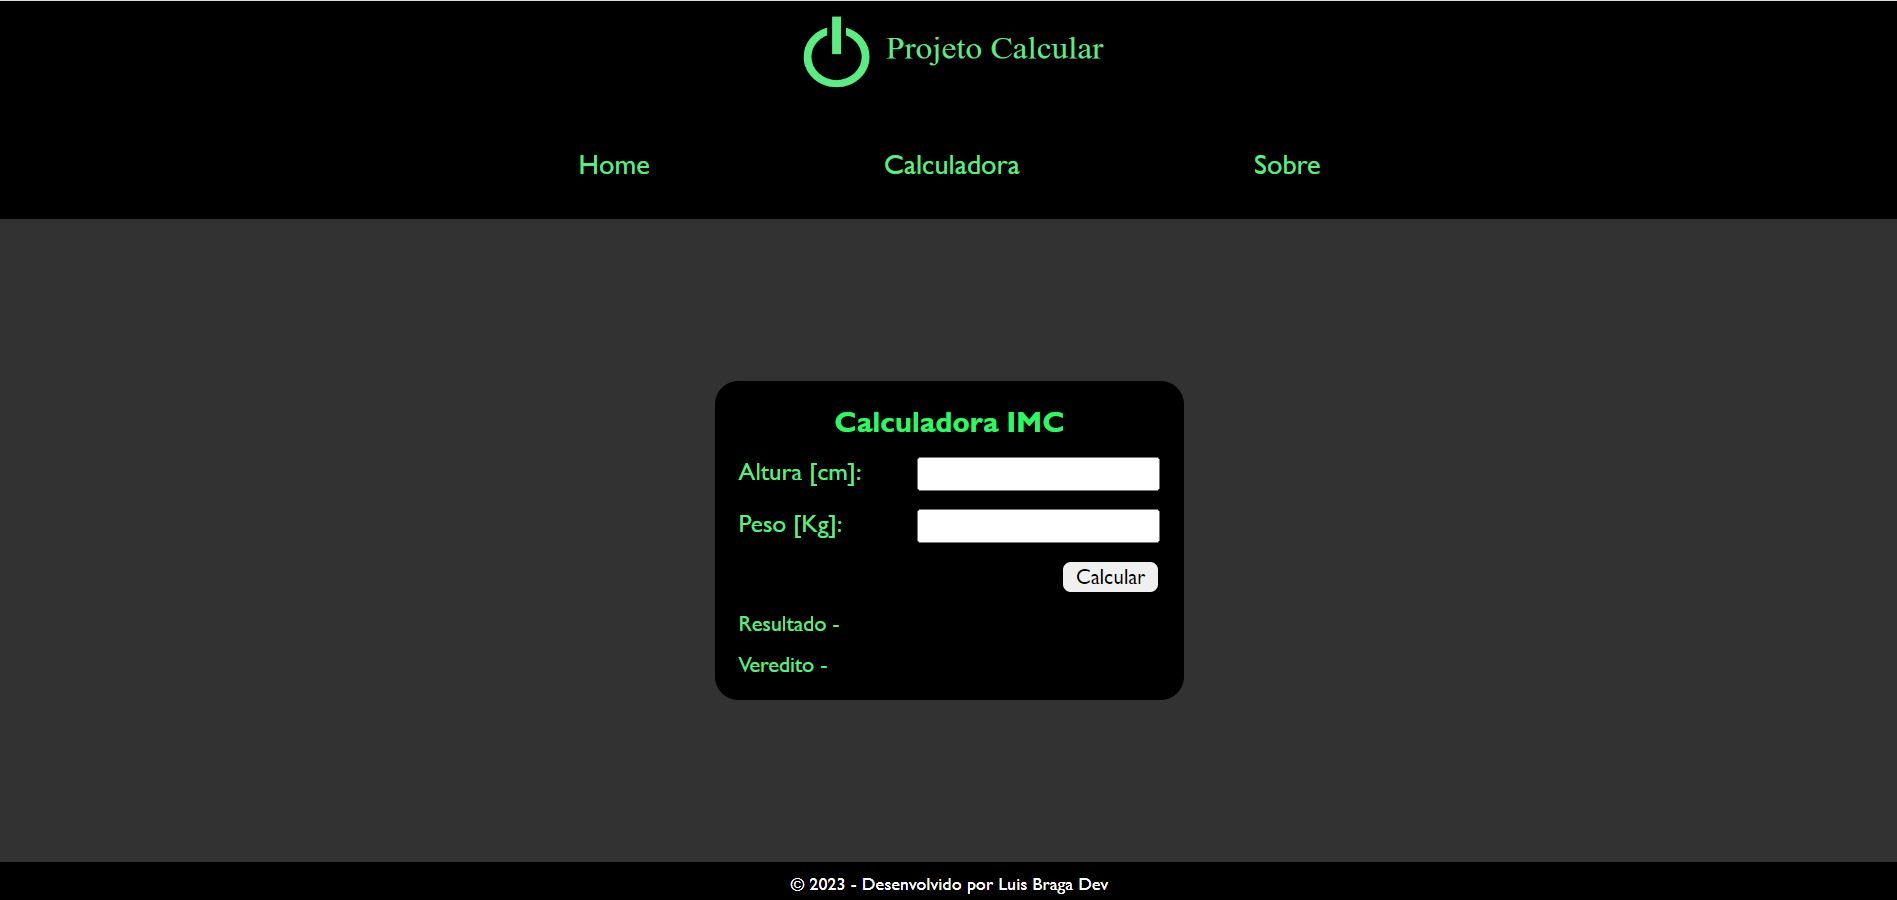
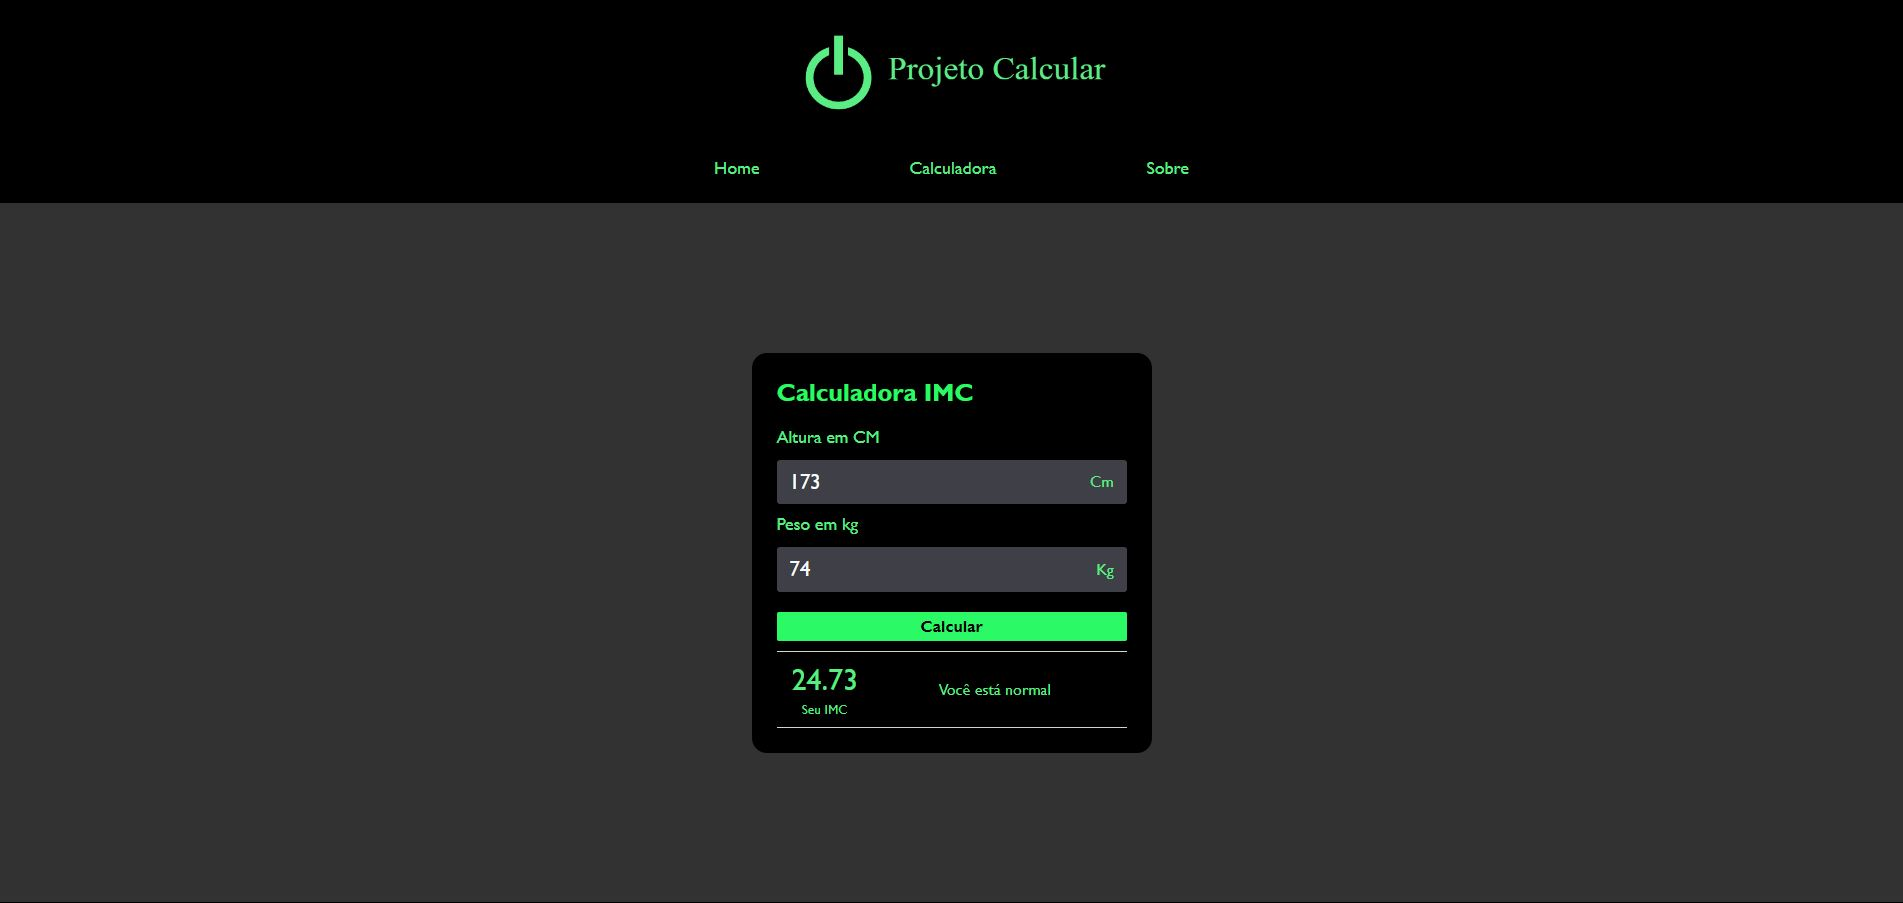
Atualização da calculadora de IMC - novo design

diff --git a/css/imc.css b/css/imc.css
@@ -8,54 +8,111 @@ main {
 .calculadora-imc {
     display: flex;
     flex-direction: column;
-    justify-content: center;
-    align-items: left;
-    gap: 12px;
+    gap: 10px;
     background-color: black;
-    padding: 15px;
+    padding: 25px;
     border-radius: 15px;
     color: #5aed83;
-    width: 300px;
+    width: 400px;
 }
 
 .calculadora-imc h3 {
-    text-align: center;
+    text-align: left;
+    font-size: 25px;
     color: #2bf965;
+    margin-bottom: 10px;
 }
 
 .input-imc {
     display: flex;
+    flex-direction: column;
     justify-content: left;
     gap: 10px;
 }
-
 .input-imc label {
-    width: 40%;
+    font-weight: 500;
+    font-size: 1.1rem;
 }
 
-.input-imc input {
-    width: 60%;
-    padding: 2px;
-    font-size: 12px;
+.input-detail {
+    display: flex;
+    align-items: center;
+    justify-content: space-between;
+    background-color: #3f3f46;
+    padding: 0.3rem;
+    border-radius: 3px;
+    margin-top: 3px;
+}
+
+.input-detail span {
+    padding: 0.5em;
+}
+
+.input-detail input {
+    width: 100%;
+    font-size: 1.3rem;
+    color: #f8fafc;
+    padding: 0 0.5rem;
+    background-color: transparent;
+    border: hidden;    
+}
+
+.input-detail input:focus {
+    outline: 0;
 }
 
 .button-imc {
-    padding-left: 77%;
+    display: flex;
+    justify-content: center;
+    align-items: center;
+    padding-top: 10px;
 }
 
 .button-imc button {
-    padding: 2px 8px;
-    border-radius: 5px;
+    width: 100%;
+    padding: 5px 10px;
+    border-radius: 2px;
     border: none;
     cursor: pointer;
+    background-color: #2bf965;
+    font-size: 16px;
+    font-weight: bolder;
 }
 
-.result-imc {
+.button-imc button:hover {
+    transform: scale(1.05);
+}
+
+.infos-imc {
+    display: flex;
+    gap: 20px;
+    align-items: center;
+    padding: 10px 15px;
+    border-top: 1px solid lightgrey;
+    border-bottom: 1px solid lightgrey;
+}
+
+.imc-result {
     display: flex;
     flex-direction: column;
-    gap: 10px;
+    justify-content: center;
+    gap: 5px;
+    align-items: center;
 }
 
-.result-imc p {
-    font-size: 14px;
+.imc-result p {
+    font-size: 30px;
+}
+
+.imc-veredict {
+
+    width: 100%;
+    display: flex;
+    justify-content: center;
+    align-items: center;
+}
+
+.imc-veredict p {
+    font-size: 16px;
+    text-align: center;
 }

diff --git a/pages/imc.html b/pages/imc.html
@@ -35,22 +35,33 @@
             <h3> Calculadora IMC </h3>
             
             <div class="input-imc">
-                <label> Altura [cm]: </label>
-                <input id="altura" type="text">
+                <label> Altura em CM </label>
+                <div class="input-detail">
+                    <input id="altura" type="text" placeholder="Altura"> <span> Cm </span>
+                </div>
             </div>
 
             <div class="input-imc">
-                <label> Peso [Kg]: </label>
-                <input id="peso" type="text">
+                <label> Peso em kg </label>
+                <div class="input-detail">
+                    <input id="peso" type="text" placeholder="Peso"> <span> Kg </span>
+                </div>
             </div>
 
             <div class="button-imc">
                 <button class="buttonImc"> Calcular </button>
             </div>
 
-            <div class="result-imc">
-                <p class="resultado"> Resultado -  </p>
-                <p class="veredito"> Veredito - </p>
+            <div class="infos-imc">
+                <div class="imc-result">
+                    <p class="resultado"> 00,00 </p>
+                    <small> Seu IMC </small>
+                </div>
+                
+                <div class="imc-veredict">
+                    <p class="veredito">  </p>
+                </div>
+
             </div>
 
         </div>

diff --git a/js/imc.js b/js/imc.js
@@ -4,8 +4,8 @@ let calcularButton = document.querySelector('.buttonImc');
 
 function calcular() {
     
-    resultado.innerText = " Resultado - ";
-    veredito.innerText = " Veredito - ";
+    resultado.innerText = "";
+    veredito.innerText = "";
     let altura = document.querySelector('#altura').value / 100;
     let peso = document.querySelector('#peso').value;
 

diff --git a/css/index.css b/css/index.css
@@ -41,6 +41,12 @@ main {
     transform: scale(1.1);
 }
 
+.calculadora-item h3 {
+    color: #5aed83;
+    font-weight: normal;
+    
+}
+
 .calculadora-img img{
     width: 250px;
     border: 1px solid black;

diff --git a/css/style.css b/css/style.css
@@ -59,7 +59,7 @@ main {
 
 .footer {
     width: 100%;
-    padding: 5px;
+    padding: 2em;
     font-size: 14px;
     text-align: center;
     background-color: black;
